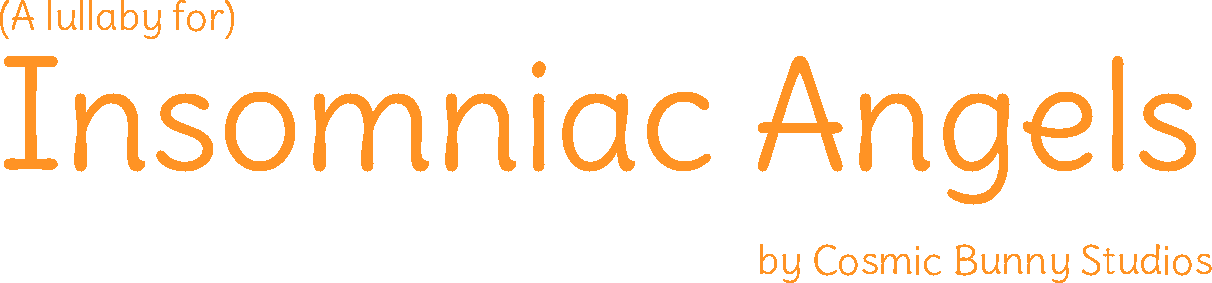
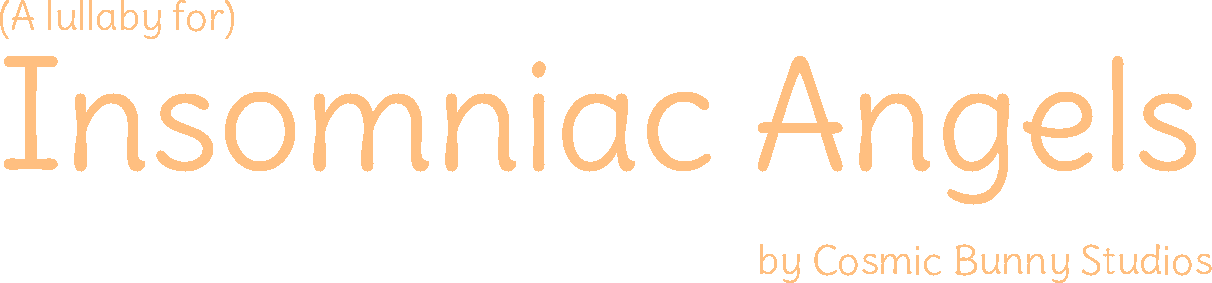
trying a different theme

diff --git a/src/styles/components/Forms.css b/src/styles/components/Forms.css
@@ -13,8 +13,8 @@
   font-size: 1em;
   margin-bottom: 15px;
   padding: 0.3em;
-  border: 1px solid #ff9324;
-  color: #ff9324;
+  border: 1px solid #ffbf80;
+  color: #ffbf80;
   background-color: transparent;
 }
 
@@ -29,8 +29,8 @@
   font-size: 1rem;
   padding: 10px;
   background-color: transparent;
-  color: #ff9324;
-  border: 1px solid #ff9324;
+  color: #ffbf80;
+  border: 1px solid #ffbf80;
   cursor: pointer;
 }
 
@@ -43,7 +43,7 @@
 
 .contactForm div.infoMessage {
   font-size: 0.8em;padding-bottom: 1.8em;
-  color: #ff9324;
+  color: #ffbf80;
 }
 .checkbox-container {
   display: inline-flex;
@@ -56,7 +56,7 @@
   appearance: none;
   width: 1.25em;
   height: 1.25em;
-  border: 2px solid #ff9324;
+  border: 2px solid #ffbf80;
   position: relative;
 }
 
@@ -68,7 +68,7 @@
   appearance: none;
   width: 1.5em;
   height: 1.25em;
-  border: 2px solid #ff9324;
+  border: 2px solid #ffbf80;
   position: relative;
 }
 }
@@ -82,7 +82,7 @@
   transform: translate(-50%, -50%) rotate(45deg);
   width: 0.4em;
   height: 0.8em;
-  border: solid #ff9324;
+  border: solid #ffbf80;
   border-width: 0 0.15em 0.15em 0;
 }
 
@@ -90,5 +90,5 @@
   font-size: 1em;
   margin-top: 1.2em;
   margin-left: 1em;
-  color: #ff9324;
+  color: #ffbf80;
 }

diff --git a/src/App.css b/src/App.css
@@ -46,10 +46,10 @@
 
 
 body {
-  background-color: #a4005b;
+  background-color:  #470027;
   font-family: 'Delius';
   font-size: 1.25rem;
-  color: #ff9324;
+  color: #ffbf80;
   overflow: hidden;
 }
 
@@ -65,7 +65,7 @@ body {
 .left-line,
 .right-line {
   position: fixed;
-  background-color: #ff9324;
+  background-color: #ffbf80;
 }
 
 .top-line,
@@ -105,7 +105,7 @@ body {
 }
 
 .Faq {
-  color: #ff9324;
+  color: #ffbf80;
   justify-content: center;
   display: flex;
 }
@@ -123,7 +123,12 @@ body {
 
 /*
 Themes:
-orange: #ff9324;
-pink:  #a4005b;
+orange: #ffbf80;
+pink:  #470027;
 
+#ffbf80: #ffbf80
+dark-pink: #470027
+
+ffbf80
+470027
 */

diff --git a/src/styles/components/MenuBar.css b/src/styles/components/MenuBar.css
@@ -18,7 +18,7 @@
   
   .menu-link {
     text-decoration: none;
-    color: #ff9324;
+    color: #ffbf80;
     padding: 1rem;
   }
   
@@ -53,7 +53,7 @@
     display: flex;
     flex-direction: column;
     text-decoration: none;
-    color: #ff9324;
+    color: #ffbf80;
     transition: transform 0.2s ease;
     background-color: rgba(0, 0, 0, 0.2);
     backdrop-filter: blur(0.1rem);

diff --git a/src/styles/Common.css b/src/styles/Common.css
@@ -17,7 +17,7 @@
 }
 
 .text-box {
-    color: #ff9324;
+    color: #ffbf80;
     padding-bottom: 2%;
     line-height: 2;
 }
@@ -35,6 +35,6 @@
 hr {
     border: none;
     width: 50%;
-    background-color: #ff9324;
+    background-color: #ffbf80;
     height: 0.1em;
 }
